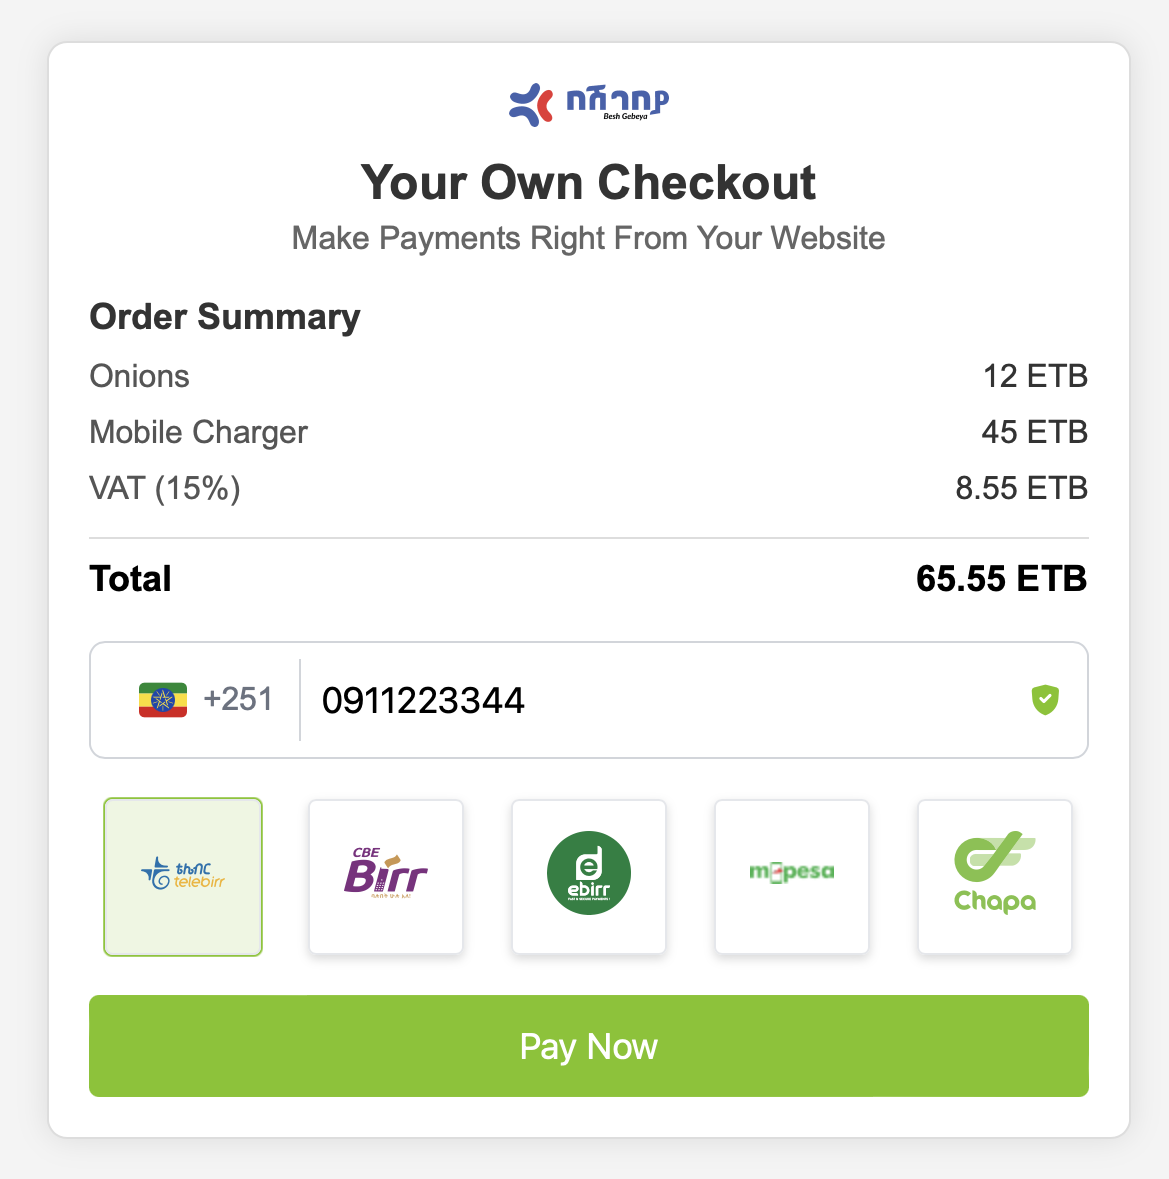
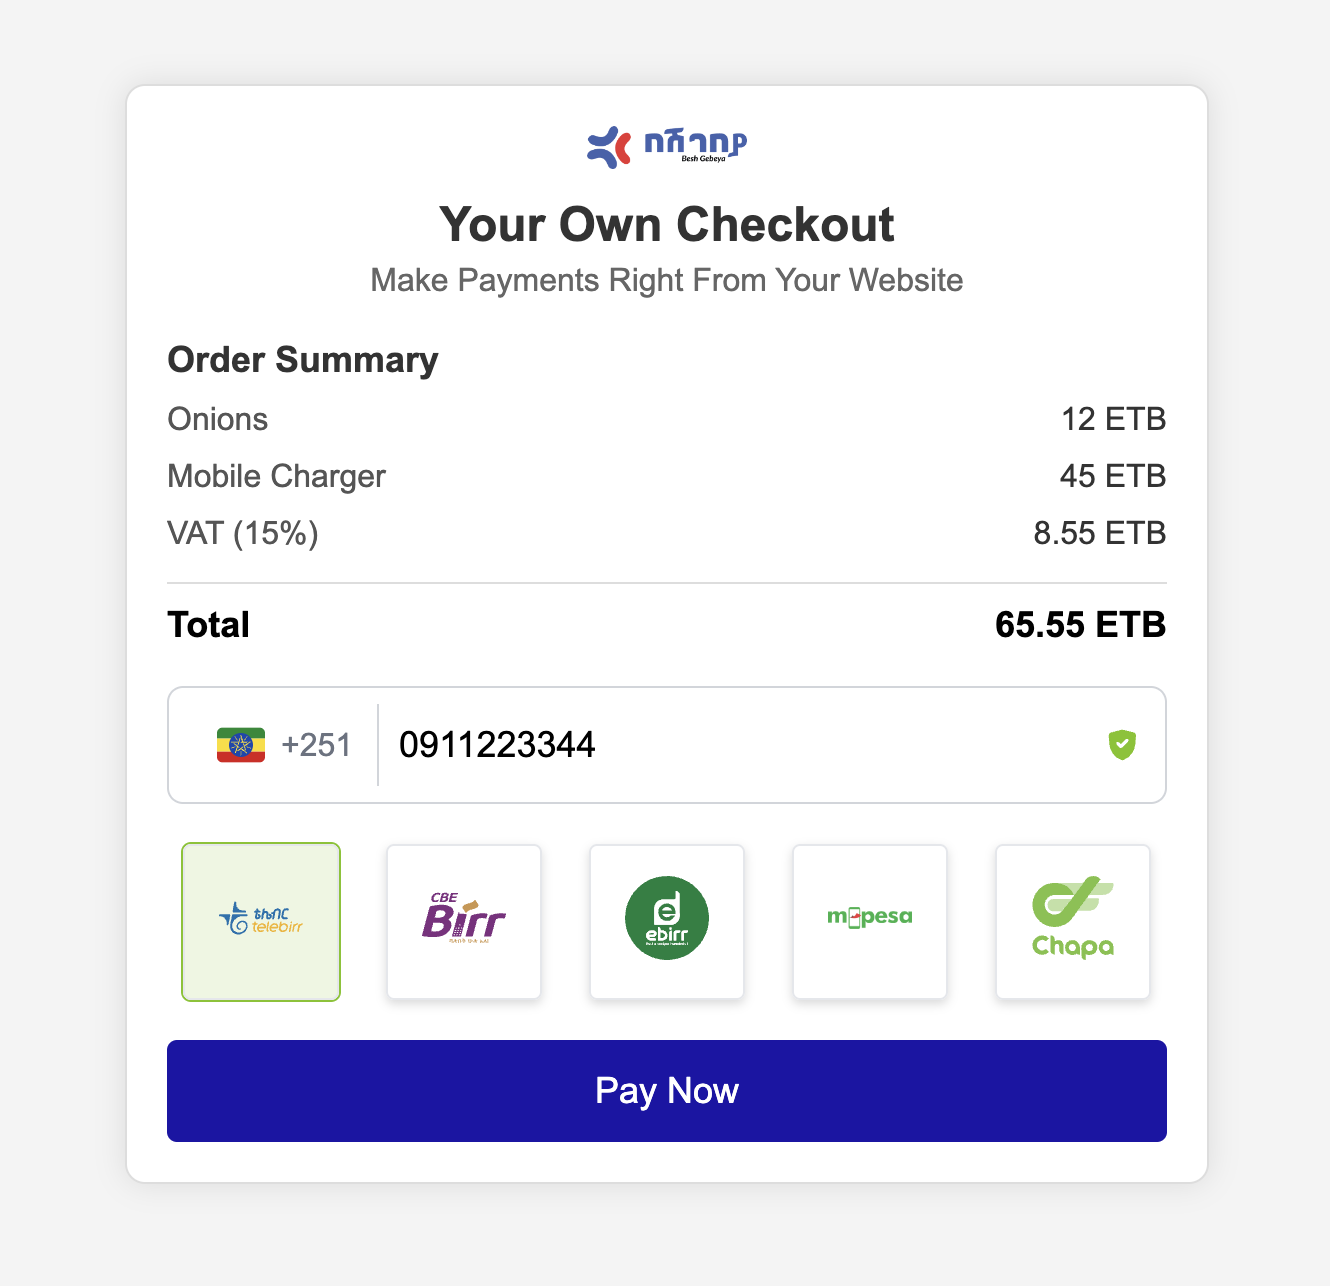
fix: payment methods, add feat: success message customization, change eample images with more custom branding

Changed region(s): [[0.0616, 0.6412, 0.9547, 0.9466], [0.0616, 0.0611, 0.9239, 0.6107], [0.7699, 0.3053, 0.9239, 0.4275]]

diff --git a/lib/inline.js b/lib/inline.js
@@ -73,6 +73,7 @@ class ChapaCheckout {
               <div id="chapa-loading-container" class="chapa-loading">
                   <div class="chapa-spinner"></div>
                   <p>Processing payment...</p>
+                  <p>Please check your phone for payment prompt.</p>
               </div>
           `;
   
@@ -156,6 +157,7 @@ class ChapaCheckout {
         currency: this.options.currency,
         tx_ref: this.options.tx_ref || this.generateTxRef(),
         mobile: phoneNumber,
+        payment_method: this.paymentType,
       };
   
       this.open(paymentData);
@@ -326,7 +328,7 @@ class ChapaCheckout {
         this.showLoading();
   
         const initiateResponse = await fetch(
-          `${this.chapaUrl}?type=${this.paymentType}`,
+          `${this.chapaUrl}`,
           {
             method: "POST",
             headers: {
@@ -369,9 +371,10 @@ class ChapaCheckout {
         while (!isVerified) {
           const verifyFormData = new FormData();
           verifyFormData.append("reference", refId);
+          verifyFormData.append("payment_method", this.paymentType);
   
           const verifyResponse = await fetch(
-            `${this.verifyUrl}?type=${this.paymentType}`,
+            `${this.verifyUrl}`,
             {
               method: "POST",
               headers: {
@@ -382,12 +385,16 @@ class ChapaCheckout {
           );
   
           const verifyResult = await verifyResponse.json();
+          if (verifyResult.status !== "success" )
+            this.showError(
+              "Payment verification failed: " + verifyResult.message
+            );
   
-          if (verifyResult.status === "success") {
+          if (verifyResult.data.status === "success") {
             isVerified = true;
             this.hideLoading();
             this.handleSuccessfulPayment(verifyResult, refId);
-          } else if (verifyResult.status !== "pending") {
+          } else if (verifyResult.data.status !== "pending") {
             this.hideLoading();
             this.showError(
               "Payment verification failed: " + verifyResult.message
@@ -422,7 +429,8 @@ class ChapaCheckout {
         window.location.href = return_url;
 
       } else {
-        this.showPopup("Payment is successful!", () => {
+        const message = this.options.customizations.successMessage || "Payment is successful!";
+        this.showPopup(message, () => {
          
           document.getElementById("chapa-pay-button").disabled = true;
         });

diff --git a/examples/checkout.html b/examples/checkout.html
@@ -130,7 +130,7 @@
             font-size: 18px;
             border: none;
             cursor: pointer;
-            background-color: #7DC400;
+            background-color: #1c15a8;
             color: #FFFFFF;
             border-radius: 5px;
             transition: background-color 0.3s ease;
@@ -218,7 +218,8 @@
         const chapa = new ChapaCheckout({
             publicKey: 'CHAPUBK_TEST-hRNRrZ3KxlF1HjYk8PLW4ISuwE4CO1KV',
             customizations: {
-                buttonText: 'Pay Now'
+                buttonText: 'Pay Now',
+                successMessage: 'Thank you for shopping with us!',
             },
             availablePaymentMethods: ['telebirr', 'cbebirr', 'ebirr', 'mpesa', 'chapa'],
             showPaymentMethodsNames: false,

diff --git a/examples/custom.html b/examples/custom.html
@@ -34,7 +34,7 @@
             font-size: 16px;
             border: none;
             cursor: pointer;
-            background-color: #1c15a8;
+            background-color: #892289;
             color: #FFFFFF;
             border-radius: 10px;
         }
@@ -103,10 +103,9 @@
 
     <script>
         const chapa = new ChapaCheckout({
-        publicKey: 'CHAPUBK_TEST-hRNRrZ3KxlF1HjYk8PLW4ISuwE4CO1KV',
+        publicKey: 'CHAPUBK-jAUMgGr2eCLXX2isTp3nu5qhfuKBROQb',
         amount: '100',
         currency: 'ETB',
-        tx_ref: 'auto',
         mobile: '0911223344',
         showFlag: true,
         showPaymentMethodsNames: true,
